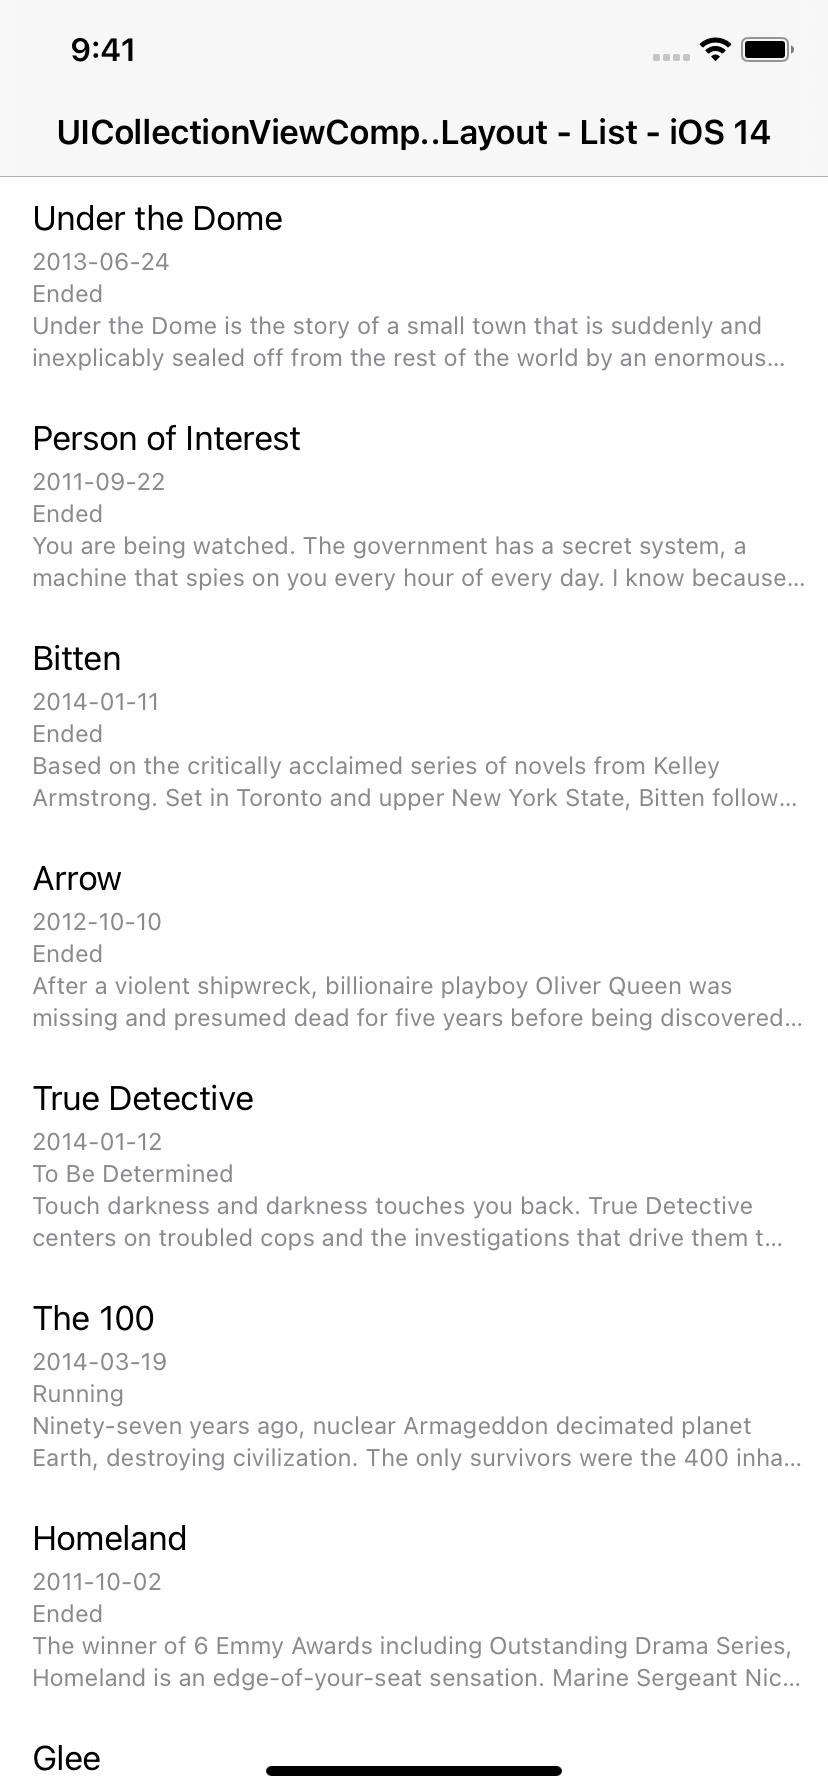
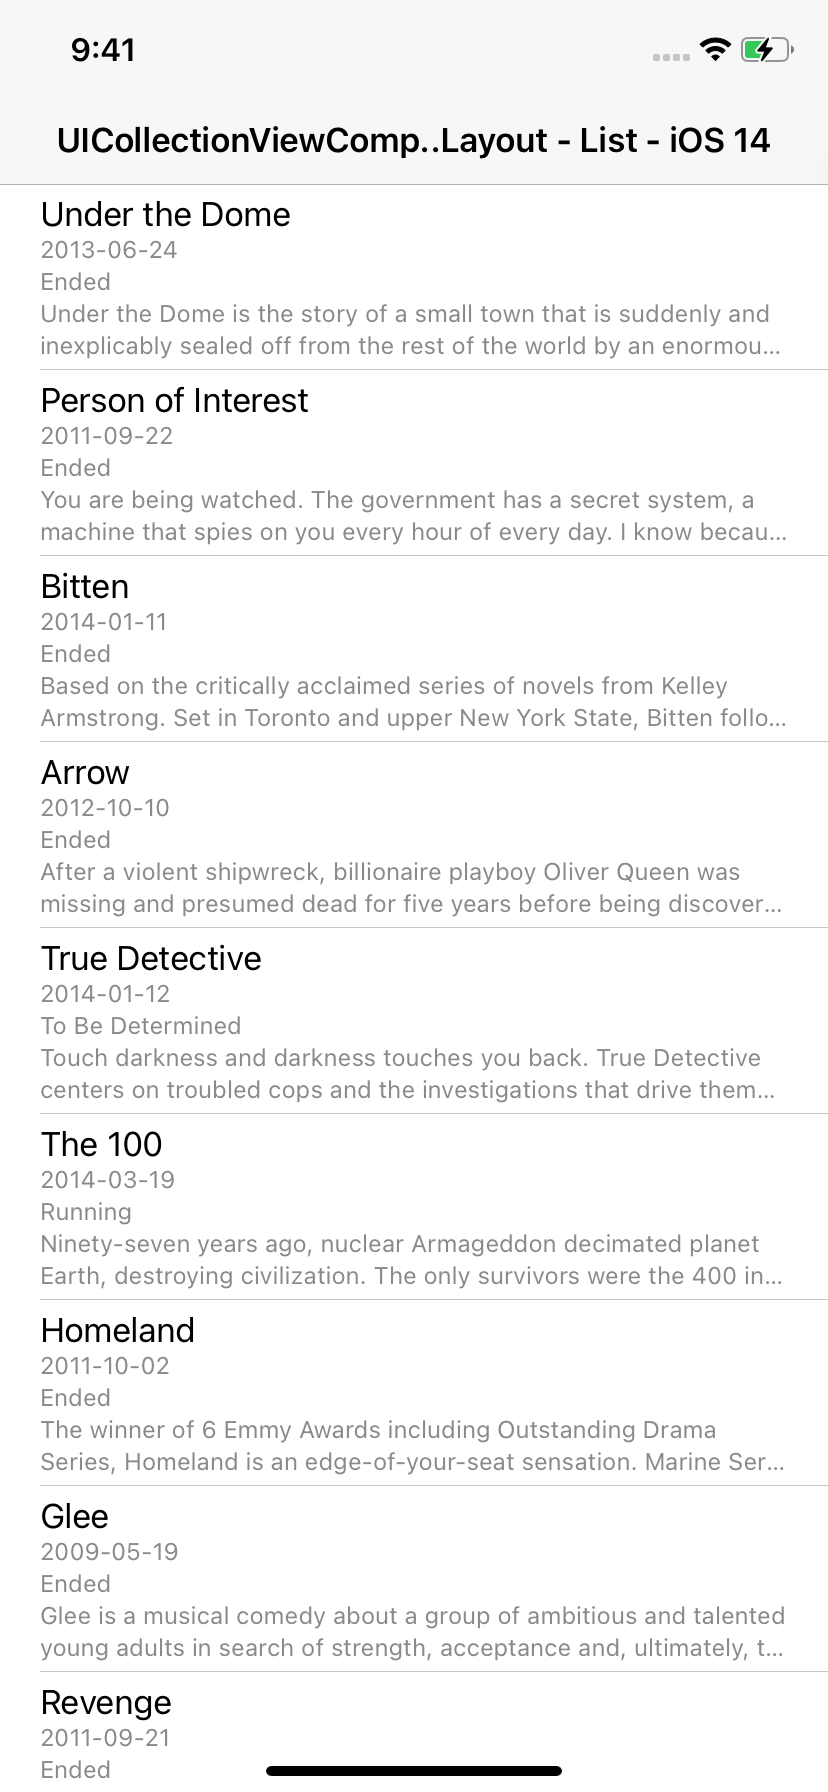
iOS 14 update

diff --git a/6-uicollectionview-compositional-layout-list/listapp/ViewController.swift b/6-uicollectionview-compositional-layout-list/listapp/ViewController.swift
@@ -52,12 +52,9 @@ class ViewController: UIViewController {
     }
 
     func makeDataSource(cv: UICollectionView) -> UICollectionViewDiffableDataSource<Section, Show> {
-        let cellRegistration: UICollectionView.CellRegistration<UICollectionViewListCell, Show> = UICollectionView.CellRegistration { cell, indexPath, show in
-            var config = cell.defaultContentConfiguration()
-            config.text = show.name
-            config.secondaryText = show.subtitle
-            config.secondaryTextProperties.color = .secondaryLabel
-            cell.contentConfiguration = config
+        let cellRegistration: UICollectionView.CellRegistration<ShowCell, Show> = UICollectionView.CellRegistration { cell, indexPath, show in
+            cell.titleLabel.text = show.name
+            cell.subtitleLabel.text = show.subtitle
         }
 
         return UICollectionViewDiffableDataSource<Section, Show>(collectionView: cv) { (cv, indexPath, show) -> UICollectionViewCell? in
@@ -66,16 +63,54 @@ class ViewController: UIViewController {
     }
 
     func makeLayout() -> UICollectionViewLayout {
-        let itemSize = NSCollectionLayoutSize(widthDimension: .fractionalWidth(1.0),
-                                             heightDimension: .absolute(110))
-        let item = NSCollectionLayoutItem(layoutSize: itemSize)
+        return UICollectionViewCompositionalLayout { (sectionIndex: Int, layoutEnvironment: NSCollectionLayoutEnvironment) -> NSCollectionLayoutSection? in
+            let configuration = UICollectionLayoutListConfiguration(appearance: .plain)
+            let section = NSCollectionLayoutSection.list(using: configuration, layoutEnvironment: layoutEnvironment)
 
-        let group = NSCollectionLayoutGroup.horizontal(layoutSize: itemSize, subitem: item, count: 1)
+            return section
+        }
+    }
+}
 
-        let section = NSCollectionLayoutSection(group: group)
+class ShowCell: UICollectionViewCell {
+    static let reuseIdentifier = "ShowCell"
 
-        let layout = UICollectionViewCompositionalLayout(section: section)
-        return layout
+    let titleLabel = UILabel ()
+    let subtitleLabel = UILabel ()
+
+    required init?(coder: NSCoder) {
+        fatalError("init(coder:) has not been implemented")
+    }
+
+    override init(frame: CGRect) {
+        super.init(frame: frame)
+
+        setup()
+    }
+
+    func setup() {
+        titleLabel.numberOfLines = 0
+
+        subtitleLabel.font = .preferredFont(forTextStyle: .caption1)
+        subtitleLabel.numberOfLines = 4
+        subtitleLabel.textColor = .secondaryLabel
+
+        [titleLabel, subtitleLabel].forEach {
+            contentView.addSubview($0)
+            $0.translatesAutoresizingMaskIntoConstraints = false
+        }
+
+        let inset: CGFloat = 20
+        NSLayoutConstraint.activate([
+            titleLabel.topAnchor.constraint(equalTo: contentView.topAnchor, constant: 5),
+            titleLabel.leadingAnchor.constraint(equalTo: contentView.leadingAnchor, constant: inset),
+            titleLabel.trailingAnchor.constraint(equalTo: contentView.trailingAnchor, constant: -inset),
+
+            subtitleLabel.topAnchor.constraint(equalTo: titleLabel.bottomAnchor),
+            subtitleLabel.leadingAnchor.constraint(equalTo: titleLabel.leadingAnchor),
+            subtitleLabel.trailingAnchor.constraint(equalTo: titleLabel.trailingAnchor),
+            subtitleLabel.bottomAnchor.constraint(equalTo: contentView.bottomAnchor, constant: -5),
+        ])
     }
 }
 
